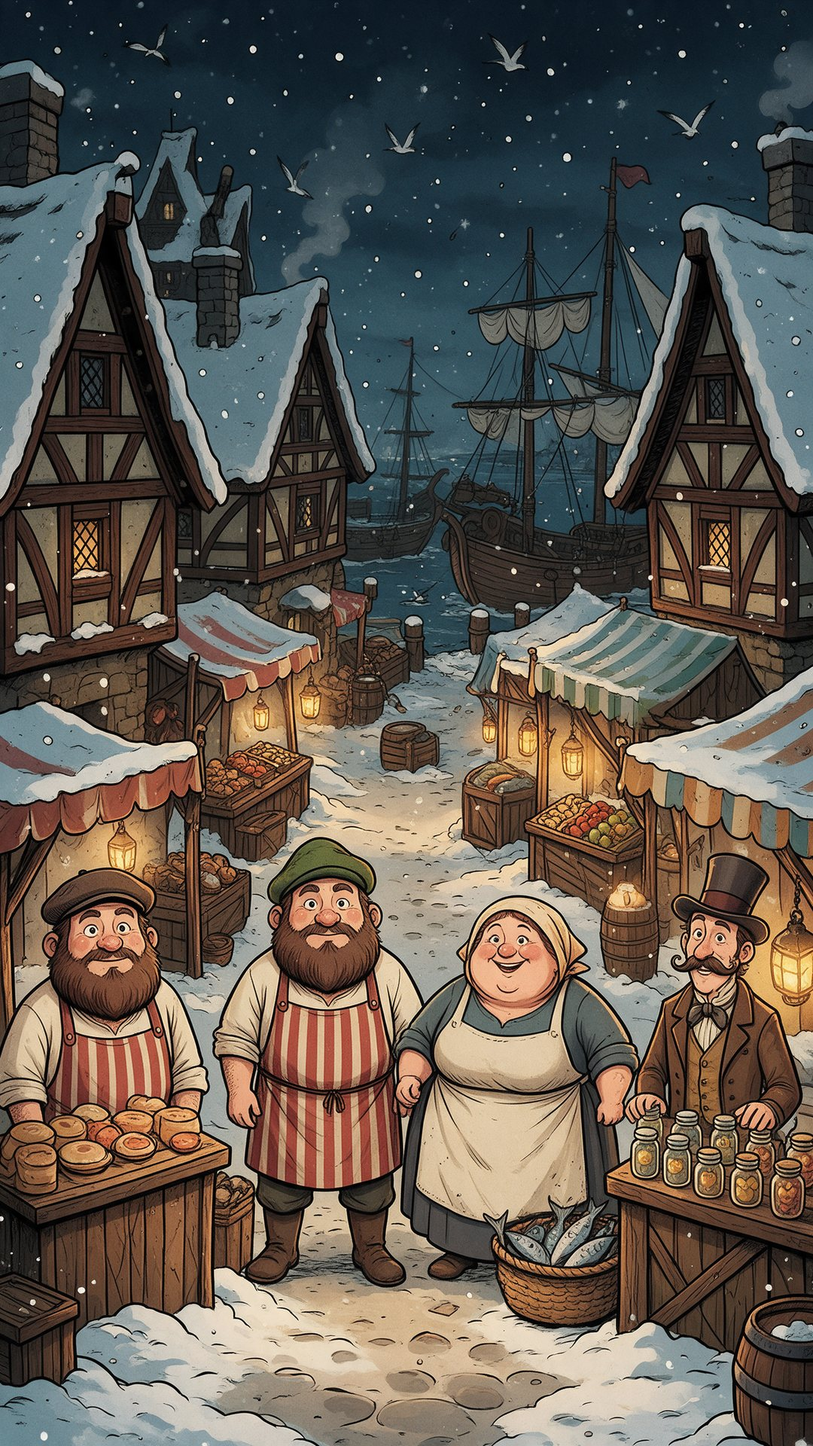
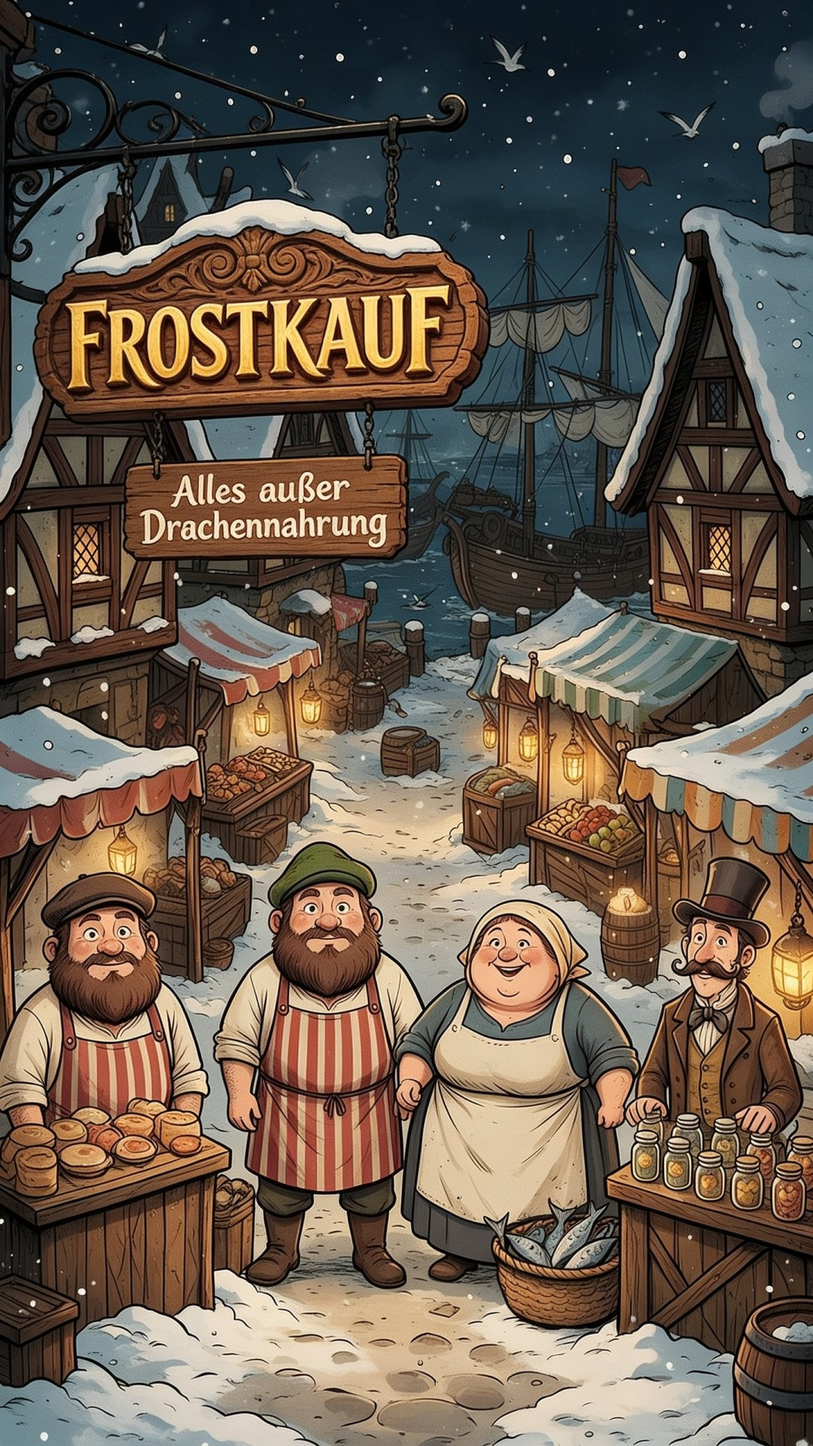
Quest 24: Frostkauf Schild
Claude-Session: https://claude.ai/code/session_013ksHH1RN3knNHjnsFznGtM

diff --git a/index.html b/index.html
@@ -9,7 +9,7 @@
 <meta name="robots" content="noindex">
 <link rel="preconnect" href="https://fonts.googleapis.com"><link rel="preconnect" href="https://fonts.gstatic.com" crossorigin>
 <link href="https://fonts.googleapis.com/css2?family=Grenze+Gotisch:wght@500;700;800&family=Alegreya:ital,wght@0,400;0,500;0,700;1,400&family=Alegreya+SC:wght@500;700&family=Caveat:wght@500;700&display=swap" rel="stylesheet">
-<link rel="stylesheet" href="style.css?v=1794172010">
+<link rel="stylesheet" href="style.css?v=1794172242">
 </head>
 <body>
 
@@ -59,26 +59,26 @@
 <div id="sheet" class="ovl sheet"></div>
 <div id="toast" class="toast"></div>
 
-<script src="gate.js?v=1794172010"></script>
-<script src="engine.js?v=1794172010"></script>
-<script src="scene.js?v=1794172010"></script>
-<script src="dice.js?v=1794172010"></script>
-<script src="items.js?v=1794172010"></script>
-<script src="battle.js?v=1794172010"></script>
-<script src="ui.js?v=1794172010"></script>
-<script src="slyr.js?v=1794172010"></script>
-<script src="games.js?v=1794172010"></script>
-<script src="malen.js?v=1794172010"></script>
-<script src="bossgames.js?v=1794172010"></script>
-<script src="films.js?v=1794172010"></script>
-<script src="days1.js?v=1794172010"></script>
-<script src="days2.js?v=1794172010"></script>
-<script src="days3.js?v=1794172010"></script>
-<script src="days4.js?v=1794172010"></script>
-<script src="hero.js?v=1794172010"></script>
-<script src="qrcode.js?v=1794172010"></script>
-<script src="komplize.js?v=1794172010"></script>
-<script src="urkunde.js?v=1794172010"></script>
-<script src="main.js?v=1794172010"></script>
+<script src="gate.js?v=1794172242"></script>
+<script src="engine.js?v=1794172242"></script>
+<script src="scene.js?v=1794172242"></script>
+<script src="dice.js?v=1794172242"></script>
+<script src="items.js?v=1794172242"></script>
+<script src="battle.js?v=1794172242"></script>
+<script src="ui.js?v=1794172242"></script>
+<script src="slyr.js?v=1794172242"></script>
+<script src="games.js?v=1794172242"></script>
+<script src="malen.js?v=1794172242"></script>
+<script src="bossgames.js?v=1794172242"></script>
+<script src="films.js?v=1794172242"></script>
+<script src="days1.js?v=1794172242"></script>
+<script src="days2.js?v=1794172242"></script>
+<script src="days3.js?v=1794172242"></script>
+<script src="days4.js?v=1794172242"></script>
+<script src="hero.js?v=1794172242"></script>
+<script src="qrcode.js?v=1794172242"></script>
+<script src="komplize.js?v=1794172242"></script>
+<script src="urkunde.js?v=1794172242"></script>
+<script src="main.js?v=1794172242"></script>
 </body>
 </html>
